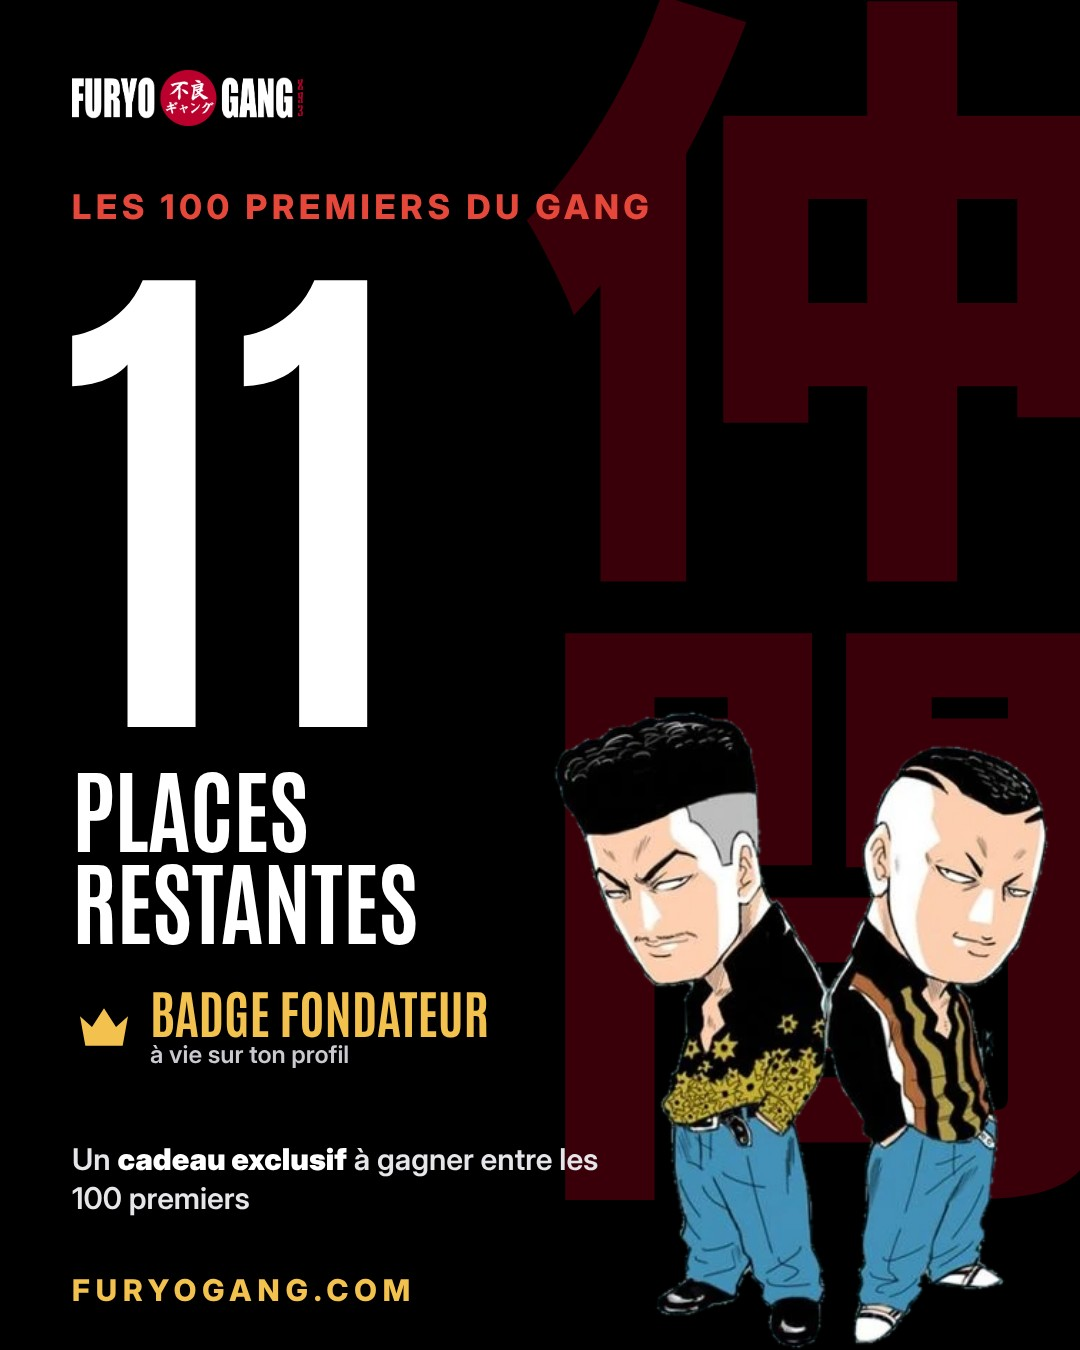
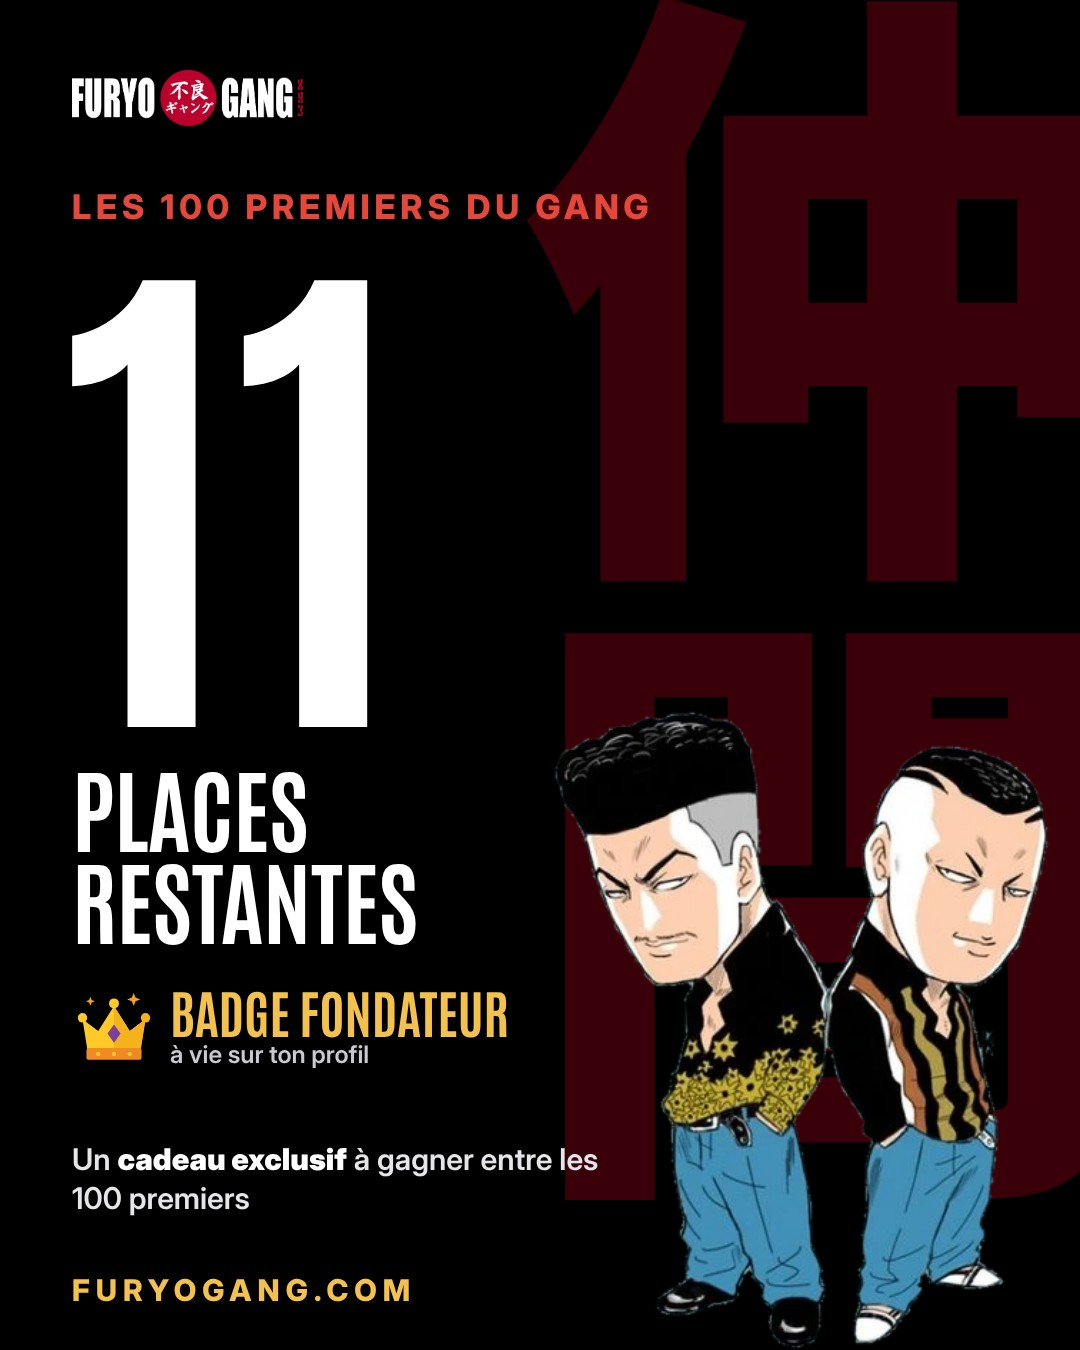
Visuel 100 premiers : couronne plate dessinée (jaune, losange violet, bande orange)
Claude-Session: https://claude.ai/code/session_01ShgbxL6GpEPzbudUpDfTjj

Changed region(s): [[0.0611, 0.7156, 0.4889, 0.8089]]

diff --git a/modeles/cent-premiers.html b/modeles/cent-premiers.html
@@ -9,7 +9,7 @@ body{margin:0;background:#333}.c{position:relative;overflow:hidden;background:#0
 .big{position:absolute;font:700 1px/.82 A}
 .t1{position:absolute;font:700 1px/1 A;text-transform:uppercase}
 .badge{position:absolute;display:flex;align-items:center;gap:14px}
-.badge svg{width:64px;height:64px;color:#F2C14E;flex:none}.badge b{display:block;font:700 52px/1 A;color:#F2C14E;text-transform:uppercase}.badge span{display:block;font:600 24px/1.2 I;color:#c9c9cf;margin-top:4px}
+.badge svg{width:84px;height:84px;color:#F2C14E;flex:none}.badge b{display:block;font:700 52px/1 A;color:#F2C14E;text-transform:uppercase}.badge span{display:block;font:600 24px/1.2 I;color:#c9c9cf;margin-top:4px}
 .gift{position:absolute;font:600 30px/1.3 I;color:#e6e6ea}.gift b{color:#fff}
 .url{position:absolute;font:800 30px/1 I;letter-spacing:.2em;color:#F2C14E}
 .duo{position:absolute;object-fit:contain;object-position:bottom right}
@@ -20,7 +20,7 @@ body{margin:0;background:#333}.c{position:relative;overflow:hidden;background:#0
 <div class="lab" style="left:72px;top:190px">Les 100 premiers du gang</div>
 <div class="big n" style="left:62px;top:250px;font-size:520px">11</div>
 <div class="t1" style="left:72px;top:760px;font-size:92px;line-height:1">places<br>restantes</div>
-<div class="badge" style="left:72px;top:985px"><svg viewBox="0 0 24 24" fill="currentColor"><path d="M3 8l4.5 4L12 5l4.5 7L21 8l-2 11H5z"/></svg><div><b>Badge Fondateur</b><span>à vie sur ton profil</span></div></div>
+<div class="badge" style="left:72px;top:985px"><svg viewBox="0 0 64 64"><path d="M47 6l1.4 3.6L52 11l-3.6 1.4L47 16l-1.4-3.6L42 11l3.6-1.4z" fill="#F7A21B"/><path d="M14 9l1 2.4 2.4 1-2.4 1-1 2.4-1-2.4-2.4-1 2.4-1z" fill="#F7A21B"/><path d="M8 26l12 9 12-19 12 19 12-9-4 25H12z" fill="#FFC928"/><path d="M32 16l12 19 12-9-4 25H32z" fill="#F5B21C"/><circle cx="8" cy="25" r="3.6" fill="#FFC928"/><circle cx="56" cy="25" r="3.6" fill="#F5B21C"/><circle cx="32" cy="14" r="3.8" fill="#FFC928"/><path d="M32 30l5 7-5 7-5-7z" fill="#7B3FA0"/><rect x="11" y="48" width="42" height="9" rx="2" fill="#F08A24"/><g fill="#FFC928"><circle cx="20" cy="52.5" r="1.6"/><circle cx="32" cy="52.5" r="1.6"/><circle cx="44" cy="52.5" r="1.6"/></g></svg><div><b>Badge Fondateur</b><span>à vie sur ton profil</span></div></div>
 <div class="gift" style="left:72px;top:1140px;width:560px">Un <b>cadeau exclusif</b> à gagner entre les 100 premiers</div>
 <div class="url" style="left:72px;top:1275px">FURYOGANG.COM</div>
 <img class="duo" src="/img/don/duo.webp" style="right:30px;bottom:0;height:640px;width:520px"></div>
@@ -29,7 +29,7 @@ body{margin:0;background:#333}.c{position:relative;overflow:hidden;background:#0
 <div class="lab" style="left:0;right:0;text-align:center;top:300px">Les 100 premiers du gang</div>
 <div class="big n" style="left:0;right:0;text-align:center;top:360px;font-size:420px">11</div>
 <div class="t1" style="left:0;right:0;text-align:center;top:800px;font-size:104px">places restantes</div>
-<div class="badge" style="left:50%;transform:translateX(-50%);top:950px"><svg viewBox="0 0 24 24" fill="currentColor"><path d="M3 8l4.5 4L12 5l4.5 7L21 8l-2 11H5z"/></svg><div><b>Badge Fondateur</b><span>à vie sur ton profil</span></div></div>
+<div class="badge" style="left:50%;transform:translateX(-50%);top:950px"><svg viewBox="0 0 64 64"><path d="M47 6l1.4 3.6L52 11l-3.6 1.4L47 16l-1.4-3.6L42 11l3.6-1.4z" fill="#F7A21B"/><path d="M14 9l1 2.4 2.4 1-2.4 1-1 2.4-1-2.4-2.4-1 2.4-1z" fill="#F7A21B"/><path d="M8 26l12 9 12-19 12 19 12-9-4 25H12z" fill="#FFC928"/><path d="M32 16l12 19 12-9-4 25H32z" fill="#F5B21C"/><circle cx="8" cy="25" r="3.6" fill="#FFC928"/><circle cx="56" cy="25" r="3.6" fill="#F5B21C"/><circle cx="32" cy="14" r="3.8" fill="#FFC928"/><path d="M32 30l5 7-5 7-5-7z" fill="#7B3FA0"/><rect x="11" y="48" width="42" height="9" rx="2" fill="#F08A24"/><g fill="#FFC928"><circle cx="20" cy="52.5" r="1.6"/><circle cx="32" cy="52.5" r="1.6"/><circle cx="44" cy="52.5" r="1.6"/></g></svg><div><b>Badge Fondateur</b><span>à vie sur ton profil</span></div></div>
 <div class="gift" style="left:120px;right:120px;text-align:center;top:1100px">Un <b>cadeau exclusif</b> à gagner entre les 100 premiers</div>
 <div class="url" style="left:0;right:0;text-align:center;top:1190px">FURYOGANG.COM</div>
 <img class="duo" src="/img/don/duo.webp" style="left:50%;transform:translateX(-50%);top:1245px;height:440px;width:520px;object-position:bottom center"></div>
@@ -38,7 +38,7 @@ body{margin:0;background:#333}.c{position:relative;overflow:hidden;background:#0
 <div class="lab" style="left:80px;top:160px;font-size:30px">Les 100 premiers du gang</div>
 <div class="big n" style="left:70px;top:210px;font-size:340px">11</div>
 <div class="t1" style="left:80px;top:530px;font-size:84px">places restantes</div>
-<div class="badge" style="left:80px;top:640px"><svg viewBox="0 0 24 24" fill="currentColor"><path d="M3 8l4.5 4L12 5l4.5 7L21 8l-2 11H5z"/></svg><div><b>Badge Fondateur</b><span>à vie sur ton profil</span></div></div>
+<div class="badge" style="left:80px;top:640px"><svg viewBox="0 0 64 64"><path d="M47 6l1.4 3.6L52 11l-3.6 1.4L47 16l-1.4-3.6L42 11l3.6-1.4z" fill="#F7A21B"/><path d="M14 9l1 2.4 2.4 1-2.4 1-1 2.4-1-2.4-2.4-1 2.4-1z" fill="#F7A21B"/><path d="M8 26l12 9 12-19 12 19 12-9-4 25H12z" fill="#FFC928"/><path d="M32 16l12 19 12-9-4 25H32z" fill="#F5B21C"/><circle cx="8" cy="25" r="3.6" fill="#FFC928"/><circle cx="56" cy="25" r="3.6" fill="#F5B21C"/><circle cx="32" cy="14" r="3.8" fill="#FFC928"/><path d="M32 30l5 7-5 7-5-7z" fill="#7B3FA0"/><rect x="11" y="48" width="42" height="9" rx="2" fill="#F08A24"/><g fill="#FFC928"><circle cx="20" cy="52.5" r="1.6"/><circle cx="32" cy="52.5" r="1.6"/><circle cx="44" cy="52.5" r="1.6"/></g></svg><div><b>Badge Fondateur</b><span>à vie sur ton profil</span></div></div>
 <div class="gift" style="left:80px;top:760px">Un <b>cadeau exclusif</b> à gagner entre les 100 premiers</div>
 <div class="url" style="left:80px;top:825px">FURYOGANG.COM</div>
 <img class="duo" src="/img/don/duo.webp" style="right:60px;bottom:0;height:820px;width:640px"></div>
